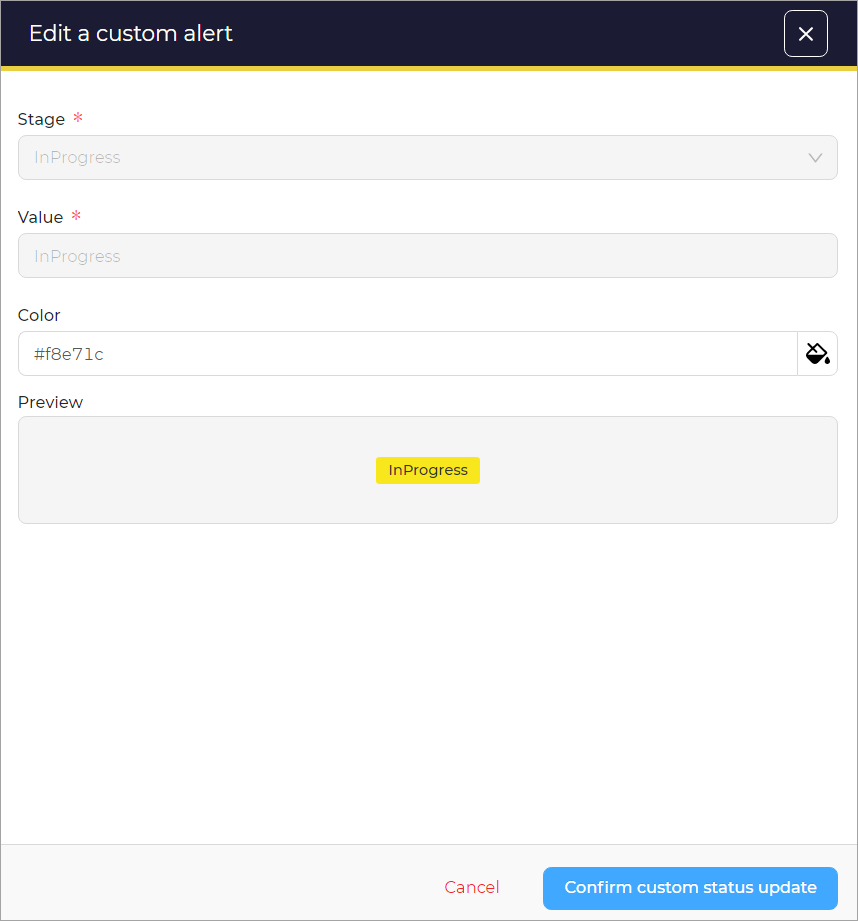
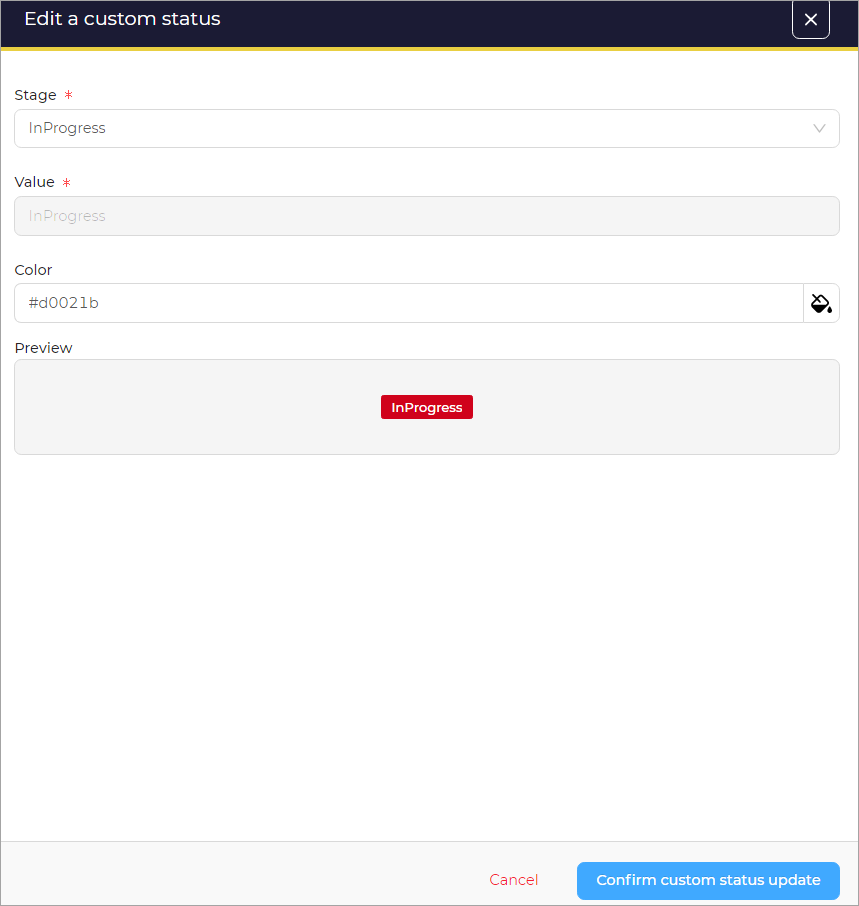
Minor changes in Administatoion section (#11)

diff --git a/docs/Administration/platform-management/misp/add-edit-delete-server.md b/docs/Administration/platform-management/misp/add-edit-delete-server.md
@@ -2,7 +2,9 @@
 
 In this section, you can find information about configuring the MISP integration.
 MISP and TheHive can interact between each other in both ways:
+
 * TheHive is able to import events from a MISP instance as alerts and create cases from them.
+
 * TheHive is able to export a case into MISP as an event and update it with the artifacts flagged as IOC as MISP attributes.
 
 ## Add a new server
@@ -29,7 +31,7 @@ To set up a new server:
     
 1. Enter the **Address**.
 
-1. Switch on the toggle butoons for **Athentification**, **Do not check certificate authority**, and **Disable hostname verification** if required.
+1. Switch on the buttons for **Athentification**, **Do not check certificate authority**, and **Disable hostname verification** if required.
 
 1. In the Advanced settings section, select the filter for the TheHive organizations from the list.
 
@@ -39,7 +41,7 @@ To set up a new server:
 
 1. Click the **Update** button.
 
-   Do you want to save the modifications message appears.
+    Do you want to save the modifications message appears.
 
     <img src="../images/save-modifications-confirm.png" alt="Save Modifications" width="700" height="700"/>
 
@@ -73,7 +75,7 @@ To set up a new server:
     <img src="../images/misp-configuration-saved-message.png" alt="MISP Configuration Saved" width="400" height="200"/>
 
 
-## Edit MISP Server Details
+## Edit MISP Server
 
 1. On the Platform Management page, in the MISP tab, click the server name you want to edit.
 
@@ -81,7 +83,7 @@ To set up a new server:
 
     Set up the server for that particular server window opens.
 
-    <img src="../images/update-misp-server-details.png" alt="Edit MISP Server Details" width="1000" height="1000"/>
+    <img src="../images/update-misp-details.png" alt="Edit MISP Server Details" width="1000" height="1000"/>
 
 1. Edit the required details.
 

diff --git a/docs/Administration/entities-management/alert-status/add-edit-delete-alert-status.md b/docs/Administration/entities-management/alert-status/add-edit-delete-alert-status.md
@@ -6,11 +6,11 @@ In this section, you can find information about managing the alert status. You c
 
 To add a custom alert:
 
-1. On the Entities Management page, in the Alert Status tab, click the **+** button.
+1. On the Entities Management page, in the Alert status tab, click the **+** button.
 
     <img src="../images/add-a-custom-status-button.png" alt="Create a new Custom Alert" width="1000" height="1000"/>
 
-    Add a Custom Status window opens.
+    Add a custom status window opens.
 
     <img src="../images/add-custom-status-details.png" alt="Add Custom Alert Details" width="500" height="500"/>
 
@@ -34,13 +34,13 @@ To add a custom alert:
 
 To edit a custom status:
 
-1. On the Entities Management page, in the alert status tab, click the ellipsis(...) corresponding to the value you want to edit.
+1. On the Entities Management page, in the Alert status tab, click the ellipsis(...) corresponding to the value you want to edit.
 
 1. Click **Edit**.
 
     <img src="../images/edit-alert-status-menu.png" alt="Edit Alert Status" width="1000" height="1000">
 
-    Edit a Custom Status window opens.  
+    Edit a custom status window opens.  
 
     <img src="../images/edit-custom-status-details.png" alt="Edit Custom Alert details" width="500" height="500"/>
 
@@ -55,7 +55,7 @@ To edit a custom status:
 
 To delete a custom Alert:
 
-1. On the Entities Management page, in the alert status tab, click the ellipsis(...) corresponding to the value you want to delete.
+1. On the Entities Management page, in the Alert status tab, click the ellipsis(...) corresponding to the value you want to delete.
 
 1. Click **Delete**.
 

diff --git a/docs/Administration/platform-management/cortex/add-edit-delete-cortex-server.md b/docs/Administration/platform-management/cortex/add-edit-delete-cortex-server.md
@@ -24,7 +24,7 @@ To set up a new server:
 
     1. Enter the **Address**.
 
-    1. witch on the toggle butoons for **Athentification**, **Do not check certificate authority**, and **Disable hostname verification** if required.
+    1. witch on the buttons for **Athentification**, **Do not check certificate authority**, and **Disable hostname verification** if required.
 
 1. In the Advanced settings section, select the filter for the TheHive organizations from the list.
 
@@ -34,7 +34,7 @@ To set up a new server:
 
 1. Click the **Add** button.
 
-   Do you want to save the modifications message appears.
+    Do you want to save the modifications message appears.
 
     <img src="../images/save-modifications-confirm.png" alt="Save Modifications" width="700" height="700"/>
 
@@ -68,7 +68,7 @@ To set up a new server:
     <img src="../images/new-cortex-server-saved-message.png" alt="New Cortex Server Configuration Saved" width="400" height="200"/>
 
 
-## Edit Cortex Server Details
+## Edit Cortex Server
 
 1. On the Platform Management page, in the Cortex tab, click the cortex server name you want to edit.
 

diff --git a/docs/Administration/entities-management/observable-types/add-edit-delete-observable-type.md b/docs/Administration/entities-management/observable-types/add-edit-delete-observable-type.md
@@ -13,7 +13,7 @@ To add a new observable type:
     Adding an Observable Type window opens.
 
 1. Enter a **Name** for an observable type.
-1. Switch on the **Attachment** toggle button to attach a file.
+1. Switch on the **Attachment** button to attach a file.
 1. Click the **Confirm observable type creation** button.
 
     <img src="../images/observable-type-details.png" alt="Create a New Observable Type" width="500" height="500"/>
@@ -26,13 +26,13 @@ To add a new observable type:
 
 To delete an observable type:
 
-1. On the Entities Management page, in the observable type tab, click the ellipsis(...) corresponding to the type you want to delete.
+1. On the Entities Management page, in the observable types tab, click the ellipsis(...) corresponding to the type you want to delete.
 
 1. Click **Delete**.
 
     <img src="../images/observable-type-delete-button.png" alt="Observable Type Delete button" width="1000" height="1000"/>
 
- A delete confirmation dialog box appears.
+    A delete confirmation dialog box appears.
 
 1. Click **OK**.
 

diff --git a/docs/Administration/entities-management/custom-fields/add-edit-delete-custom-field.md b/docs/Administration/entities-management/custom-fields/add-edit-delete-custom-field.md
@@ -8,19 +8,19 @@ To add a new custom field:
 
 1. On the Entities Management page, in the Custom Fields tab, click the **+** button.
 
-    <img src="../images/add-custom-field-button.png" alt="Create New Custom Field" width="700" height="700"/>
+    <img src="../images/add-custom-field-button.png" alt="Create New Custom Field" width="500" height="500"/>
 
     Adding a Custom Field window opens.
 
 1. Enter a **Display name** for the custom field.
 1. Enter a **Technical name**.
-1. Enter a **Description**..
+1. Enter a **Description**.
 1. Select the **Group** from the list.
 1. Select a **Type** from the list.
 
     <img src="../images/type-of-custom-field.png" alt="Type of Custom Field" width="200" height="200"/>
 
-1. Switch on the **Mandatory** toggle button.
+1. Switch on the **Mandatory** button.
 
     When you make a custom field as a mandatory, you won't be able to resolve a case without populating the mandatory custom field.
 

diff --git a/docs/Organization/cases-list/observables.md b/docs/Organization/cases-list/observables.md
@@ -13,9 +13,9 @@ Observables represent stateful properties (such as the MD5 hash of a file or the
 1. Type the **Value**.
 1. Select **TLP**, (White/Green/Amber/Red) from the options.
 1. Select **PAP**, (White/Green/Amber/Red) from the options.
-1. Switch the toggle button for **Is IOC**. (IoC repository contains objects, and each of the objects contain a specific piece of information.)
-1. Switch the toggle button for **Has Been Sighted**. 
-1. Switch the toggle button for **Ignore Similarity**. 
+1. Switch the on button for **Is IOC**. (IoC repository contains objects, and each of the objects contain a specific piece of information.)
+1. Switch on the button for **Has Been Sighted**. 
+1. Switch on the button for **Ignore Similarity**. 
 1. Add Tags. (Refer to [`Add tags`](../cases/adding_to_a_case.md#add-tags)).
 1. Type the **Description**. 
 1. Click **Save and add another** button. 

diff --git a/docs/Administration/account-settings/api-key/create.md b/docs/Administration/account-settings/api-key/create.md
@@ -10,13 +10,15 @@ To create an API key:
 
     <img src="../images/account-settings-menu.png" alt="Account Settings Menu" width="400" height="200"/>
 
-1. Click the **Settings** button.
+1. Click **Settings**.
 
     The infos tab in the Account settings window opens.
 
 1. Select the **API Key** tab.
 1. Click the **Create** button to create a new API key.
 
-A new API key is generated and a message is displayed.
+    <img src="../images/api-key-create-button.png" alt="Api Key Create Menu" width="1000" height="1000"/>
 
-<img src="../images/api-key-created-message1.png" alt="API Key Created" width="400" height="200"/>
+    A new API key is generated and a message is displayed.
+
+    <img src="../images/api-key-created-message.png" alt="API Key Created" width="400" height="200"/>

diff --git a/docs/Administration/platform-management/status/trigger-alert-case-check.md b/docs/Administration/platform-management/status/trigger-alert-case-check.md
@@ -4,7 +4,7 @@ In this section you will find information about database integrity check. You ca
 
 To trigger an alert data:
 
-1. On the Platform Management page, in the status tab, click **Trigger** corresponding to the alert. 
+1. On the Platform Management page, in the Status tab, click **Trigger** corresponding to the alert. 
 
     <img src="../images/database-integrity-check-alert.png" alt="Trigger Alert Health Check" width="1000" height="1000"/>
 
@@ -26,7 +26,7 @@ To trigger a case data:
 
     <img src="../images/database-integrity-check-case.png" alt="Trigger Case Health Check" width="1000" height="1000"/>
 
-   A trigger case health check confirmation dialog box appears.
+    A trigger case health check confirmation dialog box appears.
 
 1. Click **OK**.
 

diff --git a/docs/Administration/entities-management/analyzer-templates/describes-each-analyzer-template.md b/docs/Administration/entities-management/analyzer-templates/describes-each-analyzer-template.md
@@ -5,7 +5,7 @@ There are two types of analyzers templates:
 * Long template: The one you will see when opening the analysis report on an observable page
 * Short template: Small tag that will be added to an observable. You can see them on the observables page.
 
-Long template example:
+## Long template example:
 
 The following is a "raw" report. It is an analyzer report that hasn't been formatted by an analyzer template.
 
@@ -15,7 +15,7 @@ The same report after formatted by the "long" analyzer-template is:
 
 <img src="../images/formatted-analyzer-report.png" alt="Formatted Analyzer Report" width="1000" height="1000"/>
 
-Short template example:
+## Short template example:
 
 These are short reports, providing a very concise summary of the analysis report.
 

diff --git a/docs/Organization/task/preview-task-details/create-a-task-log.md b/docs/Organization/task/preview-task-details/create-a-task-log.md
@@ -5,8 +5,8 @@ To  create a task log:
 The user can create a task log.
 
 1. Type the log message in **Description** area of the given box. 
-1. Switch on the Toggle the button to **include in timeline**. (If the user opts for a timeline, the user has to provide the date for the timeline).
-1. In **Attchment** Drop file or click. The user can upload an attachment. 
+1. Switch on the button to **include in timeline**. (If the user opts for a timeline, the user has to provide the date for the timeline).
+1. In **Attachment** Drop file or click. The user can upload an attachment. 
 1. Click **Create a Task Log** button. 
 
 <img src="../images/create-a-task-log.png" alt="create a task log" width="500" height="500"/>

diff --git a/docs/Administration/entities-management/case-status/add-edit-delete-custom-status.md b/docs/Administration/entities-management/case-status/add-edit-delete-custom-status.md
@@ -1,6 +1,6 @@
 # Manage Custom Status
 
-In this section, you can find information about managing the custom status. You can add, delete, and edit the case status.
+In this section, you can find information about managing the case status. You can add, delete, and edit the case status.
 
 ## Add Custom Status
 
@@ -8,7 +8,7 @@ To add a custom status:
 
 1. On the Entities Management page, in the Case Status tab, click the **+** button.
 
-    <img src="../images/add-a-custom-status-button.png" alt="Create a new Custom Status" width="1000" height="1000"/>
+    <img src="../images/add-case-status-button.png" alt="Create a new Custom Status" width="500" height="500"/>
 
     Add a Custom Status window opens.
 

diff --git a/docs/Organization/task/manage-views.md b/docs/Organization/task/manage-views.md
@@ -47,7 +47,7 @@ To perform Auto refresh:
 
 To view tasks as groups: 
 
-1. On the tasks list page, switch on the **tasks as groups** toggle button, the task groups will be displayed. 
+1. On the tasks list page, switch on the **tasks as groups** button, the task groups will be displayed. 
 
 <img src="../images/show-tasks-as-group.png" alt="task as group" width="1000" height="1000"/>
 
@@ -56,7 +56,7 @@ To view tasks as groups:
 
 To apply filter:
 
-1. On the page, in the tab, switch on the Filters toggle button.
+1. On the page, in the tab, switch on the **Filters** button.
 
 1. Click Add filters.
 
